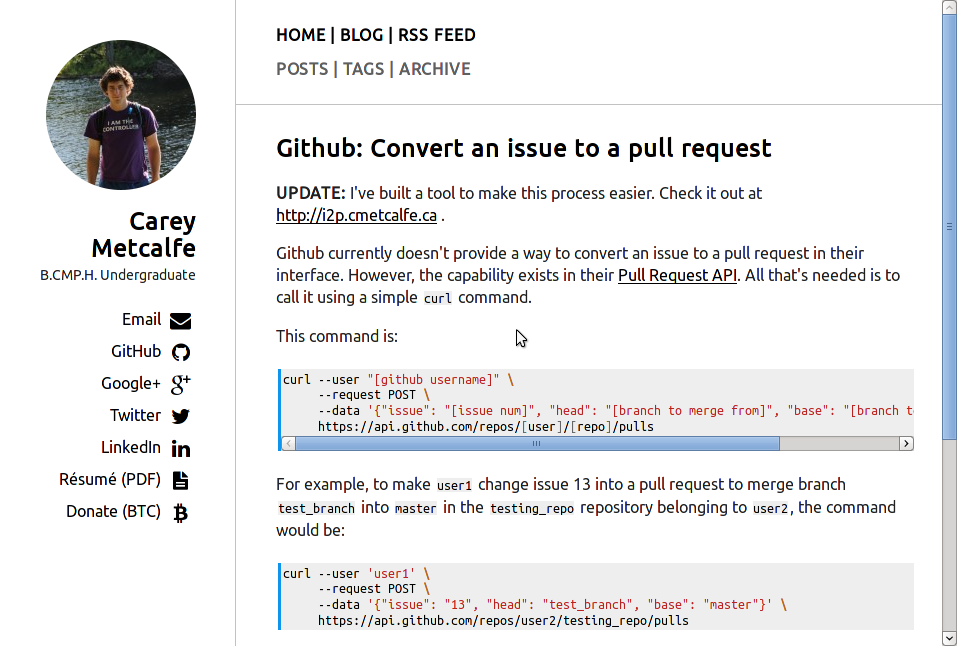
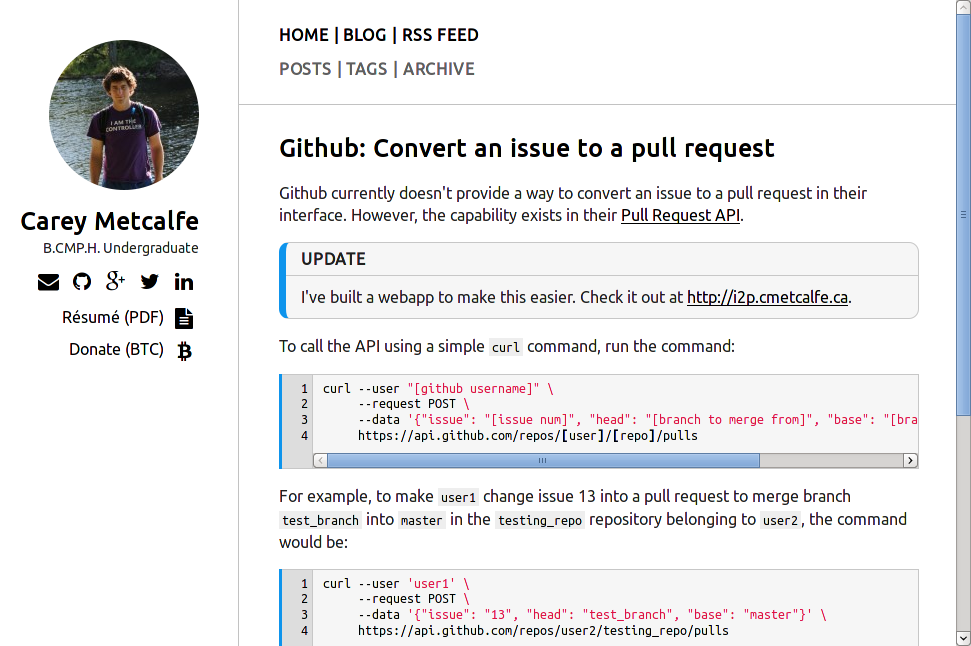
Update README and screenshot

diff --git a/README.md b/README.md
@@ -11,13 +11,15 @@ You can see the theme in action on [my site](http://cmetcalfe.ca/).
 
 ## Features
 
-- Clean, responsive design
+- Clean, responsive design. Scales to fit any screen
+- Fully HTML5 complient
+- Fully usable without Javascript (although enabling it adds more functionality)
 - Profile image and tagline
-- Syntax highlighting for pre blocks
-- Google Analytics (new Unified Analytics)
-- Supports displaying a custom list of links with icons in the sidebar
-- Global keyword support
-- Fuzzy date display using Javascript
+- Ability to hide email addresses from spambots
+- Syntax highlighting for code blocks
+- Integrated Google Analytics
+- Supports custom sidebar links and social icons
+- Fuzzy date display (ex: "Posted 2 days ago") using Javascript
 - Disqus comment integration
 
 ## Installing
@@ -33,12 +35,12 @@ This theme supports a number of custom variables:
 
 - `GOOGLE_ANALYTICS_ID`: Your Google Analytics UA-XXXXXXXX-X code (`None` to disable analytics).
 - `GOOGLE_ANALYTICS_PROP`: Your Google Analytics property name (`None` to disable analytics).
-- `USER_LOGO_URL`: The image to display as the profile image. Can be local or a remote URL.
 - `DISQUS_SITENAME`: Set this to enable Disqus comments on articles.
 - `DISQUS_COLLAPSED`: Set to `True` to have article comments hidden by default. Clicking a link on the page will load them.
-- `TAGLINE`: The site's tagline. Rendered right below the image.
-- `MANGLE_EMAILS`: If enabled, any emails in the `SOCIAL` links will be obfuscated in HTML and have their links generated by Javascript when the page loads.
-- `GLOBAL_KEYWORDS`: A list of strings that will be set as keywords for each page.
+- `USER_LOGO_URL`: The image to display as the profile image. Can be local or a remote URL.
+- `TAGLINE`: The site's tagline. Rendered right below the user image.
+- `MANGLE_EMAILS`: If enabled, any emails in the `SOCIAL` or `LINKS` lists will be obfuscated in HTML and have their links generated by Javascript when the page loads.
+- `GLOBAL_KEYWORDS`: A list of strings that will be set as meta keywords for each page.
 - `FUZZY_DATES`: If `True`, uses [lw-timeago](https://github.com/pR0Ps/lw-timeago) to display fuzzy dates on articles (eg. 'Posted 3 months ago').
 - `SERVER_LESS`: If `True`, `static/css/style.css` will be used as the style (compile it server-side). Otherwise `static/css/style.less` will be compiled client-side with `less.js`.
 
